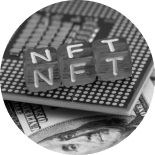
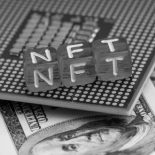
Updated Ecosystem-2

diff --git a/index.html b/index.html
@@ -491,7 +491,7 @@
                 <div class="col-md-3 col-lg-3">
                     <div class="card bg-light eco-crd-1 mt-5">
                         <div class="card-body text-center">
-                            <img src="img/index/NFT.jpg" class="" alt="">
+                            <img src="img/index/NFT.jpg" class="rounded-circle" alt="">
                             <h3 class="card-title intro-eco-card3 mt-3">
                                 NFT for Generative Arts
                             </h3>
@@ -505,7 +505,7 @@
                 <div class="col-md-3 col-lg-3">
                     <div class="card bg-light eco-crd-1 mt-5">
                         <div class="card-body text-center">
-                            <img src="img/index/Metaverse.jpg" class="" alt="">
+                            <img src="img/index/Metaverse.jpg" class="rounded-circle" alt="">
                             <h3 class="card-title intro-eco-card3 mt-3">
                                 Metaverse Contracting
                             </h3>
@@ -521,7 +521,7 @@
                 <div class="col-md-3 col-lg-3">
                     <div class="card bg-light eco-crd-1 mt-5">
                         <div class="card-body text-center">
-                            <img src="img/index/Smart.jpg" class="" alt="">
+                            <img src="img/index/Smart.jpg" class="rounded-circle" alt="">
                             <h3 class="card-title intro-eco-card3 mt-3">
                                 Smart Contracting for Real-World Contractors
                             </h3>

diff --git a/css/main-style.css b/css/main-style.css
@@ -1327,6 +1327,8 @@ footer {
   justify-content: center;
 }
 
+
+
 /* pipeline style */
 .pipeline-bg-icon-elipse1 {
   padding-top: 100px;
